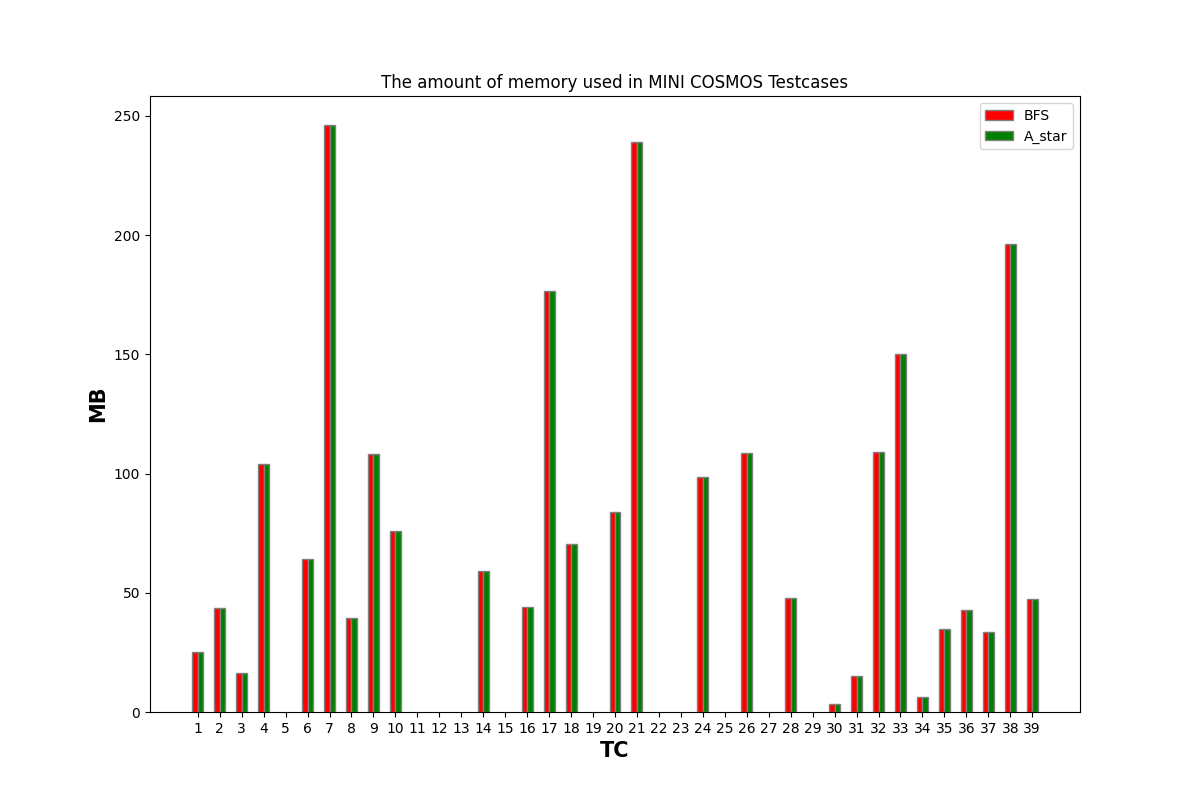
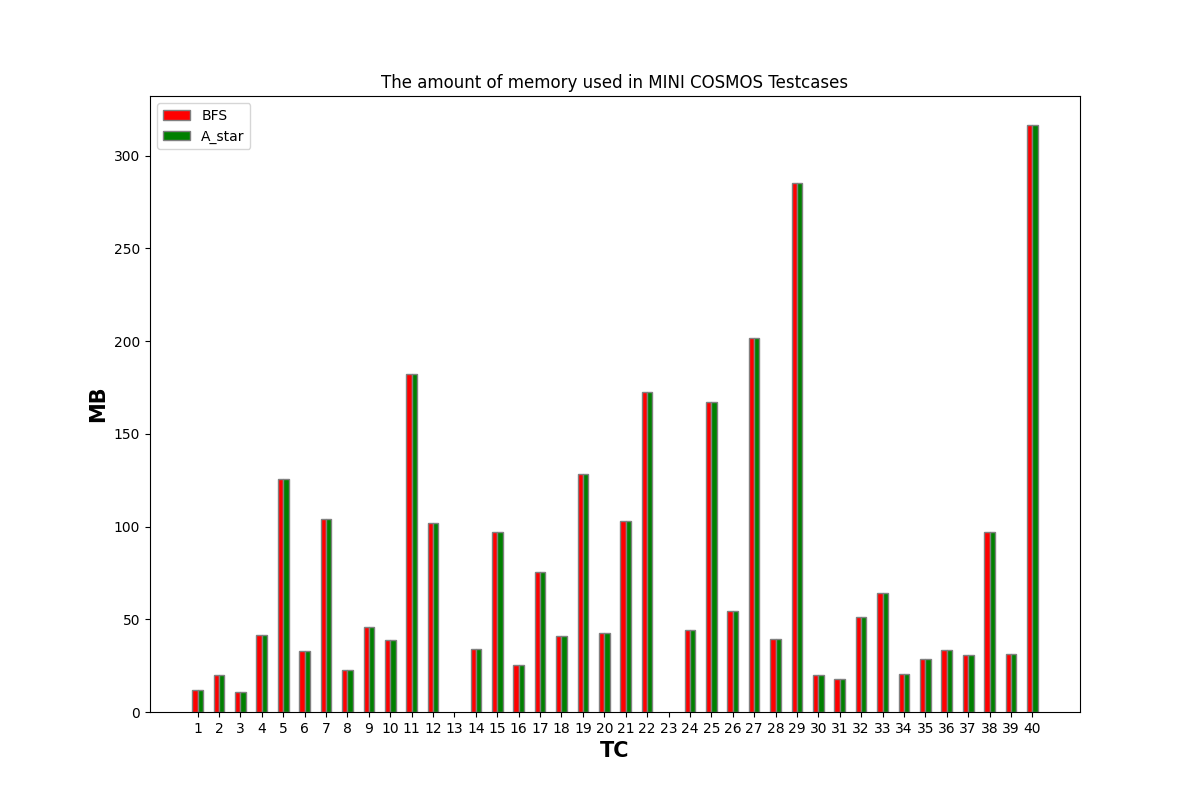
Final statistic

diff --git a/statistic.py b/statistic.py
@@ -12,8 +12,8 @@ def drawChart(factor,map):
 	stepBFS = []
 	stepAstar = []
 	if (map == "MINI COSMOS"):
-		stepBFS = BFS[factor][1:40]
-		stepAstar = BFS[factor][1:40]
+		stepBFS = BFS[factor][1:41]
+		stepAstar = BFS[factor][1:41]
 	else:
 		stepBFS = BFS[factor][40:len(BFS)]
 		stepAstar = BFS[factor][40:len(BFS)]
@@ -81,13 +81,15 @@ def drawChart(factor,map):
 	plt.savefig("./Charts/" + save + "_" + map + ".png")	
 
 
-#drawChart("Step","MINI COSMOS")
-#drawChart("Step","MICRO COSMOS")
-#drawChart("Time (s)", "MINI COSMOS")
-#drawChart("Time (s)", "MICRO COSMOS")
-#drawChart("Memory (MB)","MINI COSMOS")
-#drawChart("Memory (MB)","MICRO COSMOS")
+drawChart("Step","MINI COSMOS")
+drawChart("Step","MICRO COSMOS")
+drawChart("Time (s)", "MINI COSMOS")
+drawChart("Time (s)", "MICRO COSMOS")
+drawChart("Memory (MB)","MINI COSMOS")
+drawChart("Memory (MB)","MICRO COSMOS")
 
-print(BFS)
-print(BFS["Step"].count())
-print(BFS["Status"].count("Completed"))
+print(len(BFS))
+print(BFS["Map"][len(BFS)-1])
+#print(BFS)
+#print(BFS["Step"].count())
+#print(BFS["Status"].count("Completed"))
